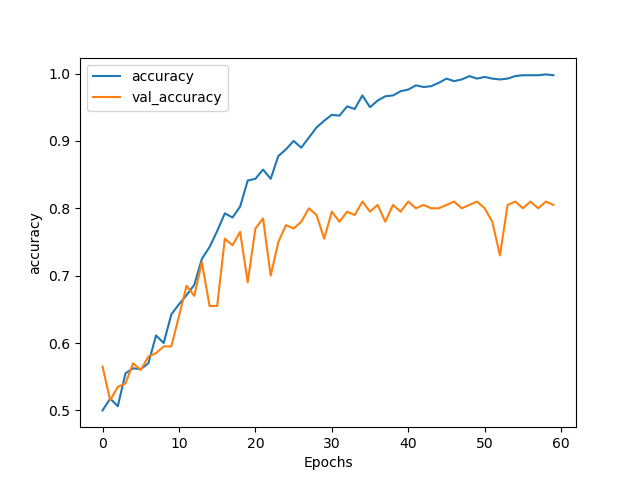
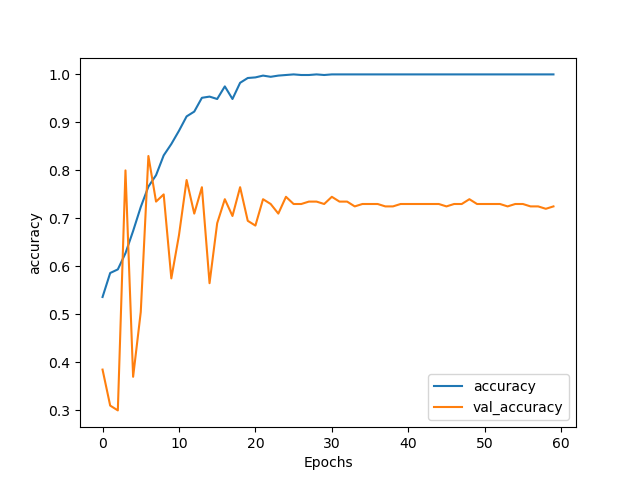
update m4 - decision tree & m5 - SVM

diff --git a/sentiment_analysis.py b/sentiment_analysis.py
@@ -7,6 +7,14 @@ https://www.kaggle.com/anirudha16101/sentiment-analysis
 Attention:
 https://keras.io/examples/nlp/text_classification_with_transformer/
 https://keras.io/api/optimizers/adam/
+
+在資料分析上嘗試更多種方法，再藉由資料分析結果重新調整參數設定
+
+嘗試將資料集切分成更小的單位，並在不同資料量上觀察不同演算法的成效
+
+在 Transformer 訓練上設定 EarlyStopping
+
+嘗試 dimentionality reduction 看看分佈狀態
 """
 
 import config
@@ -52,7 +60,7 @@ import matplotlib.pyplot as plt
 # Attention
 from multi_head_self_attention import MultiHeadSelfAttention, TransformerBlock, TokenAndPositionEmbedding
 
-def load_data(p):
+def load_data(p, sub_set_num):
     """
     讀取資料集
     """
@@ -69,10 +77,12 @@ def load_data(p):
     # 嘗試切割子資料集
     # df_yelp = pd.read_table( p + file_names[0] ,header=None,sep='\t', names=["text", "label"])
     # df_imdb = pd.read_table( p + file_names[1] ,header=None,sep='\t', names=["text", "label"])
-    df_amazon = pd.read_table( p + file_names[2] ,header=None,sep='\t', names=["text", "label"])
+    df_amazon = pd.read_table( p + file_names[0] ,header=None,sep='\t', names=["text", "label"])
 
     # df = pd.concat([df_amazon,df_yelp,df_imdb])
-    df = df_amazon
+    # df = df_amazon
+    df = df_amazon[:sub_set_num]
+    # TODO: 切成 100 筆
 
     return df
 
@@ -319,6 +329,8 @@ def method_3_Attention(df):
 
     model = keras.Model(inputs=inputs, outputs=outputs)
 
+    print(model.summary())
+
     lr_schedule = keras.optimizers.schedules.ExponentialDecay(
         initial_learning_rate=1e-1,
         decay_steps=5,
@@ -335,7 +347,7 @@ def method_3_Attention(df):
 
     # opt = keras.optimizers.Adam(learning_rate=0.001)
     opt_adam = tf.keras.optimizers.Adam(
-        learning_rate=0.0001,
+        learning_rate=3e-4, # 3e-4
         beta_1=0.85,
         beta_2=0.99,
         epsilon=1e-07,
@@ -365,12 +377,88 @@ def method_3_Attention(df):
     plot_graphs(history, "accuracy", 'Attention')
     plot_graphs(history, "loss", 'Attention')
 
+def method_4_decisiontree(df):
+    """
+    嘗試決策樹
+    """
+    vocab_size = 1000
+    max_length = 50
+    train_seq, train_labels, test_seq, test_labels = preprocessing_split(df, vocab_size, max_length)
+    
+    classifier = tree.DecisionTreeClassifier(criterion='gini',max_depth=9,min_samples_split=2,min_impurity_decrease=0.0,ccp_alpha=0.0 )
+    classifier = classifier.fit(train_seq, train_labels)
+    tree.plot_tree(classifier)
+    print(classifier.score(test_seq, test_labels))
+    
+    
+def method_5_SVM(df):
+    """
+    嘗試支持向量機
+    """
+    vocab_size = 1000
+    max_length = 50
+    train_seq, train_labels, test_seq, test_labels = preprocessing_split(df, vocab_size, max_length)
+    
+    clf=svm.SVC(kernel='poly',C=1,gamma='auto')
+    clf.fit(train_seq, train_labels)
+    print(clf.score(test_seq, test_labels))
+    #print(clf) 
+    #print(clf.support_vectors_) #支援向量點 
+    #print(clf.support_) #支援向量點的索引 
+    #print(clf.n_support_) #每個class有幾個支援向量點 
+
+    
+def data_analysis(df):
+    """
+    資料分析
+    """
+    # 設定matplotlib繪圖時的字型
+    my_font = FontProperties(fname=r"c:\windows\fonts\simsun.ttc", size=14)
+    print(df.groupby('label')['label'].count()) #正面500筆負面500筆
+    df['length'] = df['text'].apply(lambda x: len(x))
+    len_df = df.groupby('length').count()
+    sent_length = len_df.index.tolist()
+    sent_freq = len_df['text'].tolist()
+    # 繪製句子長度及出現頻數統計圖
+    plt.bar(sent_length, sent_freq)
+    plt.title("句子長度及出現頻數統計圖", fontproperties=my_font)
+    plt.xlabel("句子長度", fontproperties=my_font)
+    plt.ylabel("句子長度出現的頻數", fontproperties=my_font)
+    plt.savefig("./句子長度及出現頻數統計圖.png")
+    plt.close()
+
+    # 繪製句子長度累積分佈函式(CDF)
+    sent_pentage_list = [(count/sum(sent_freq)) for count in accumulate(sent_freq)]
+
+    # 繪製CDF
+    plt.plot(sent_length, sent_pentage_list)
+
+    # 尋找分位點為quantile的句子長度
+    quantile = 0.91
+    #print(list(sent_pentage_list))
+    for length, per in zip(sent_length, sent_pentage_list):
+        if round(per, 2) == quantile:
+            index = length
+            break
+    print("\n分位點為%s的句子長度:%d." % (quantile, index))
+    # 繪製句子長度累積分佈函式圖
+    plt.plot(sent_length, sent_pentage_list)
+    plt.hlines(quantile, 0, index, colors="c", linestyles="dashed")
+    plt.vlines(index, 0, quantile, colors="c", linestyles="dashed")
+    plt.text(0, quantile, str(quantile))
+    plt.text(index, 0, str(index))
+    plt.title("句子長度累積分佈函式圖", fontproperties=my_font)
+    plt.xlabel("句子長度", fontproperties=my_font)
+    plt.ylabel("句子長度累積頻率", fontproperties=my_font)
+    plt.savefig("./句子長度累積分佈函式圖.png")
+    plt.close()
+    print(df)
 
 def main():
     """
     英文 NLP - Sentiment analysis
     """
-    df = load_data(config.INPUT_PATH)
+    df = load_data(config.INPUT_PATH, 100)
     X_train, X_test, y_train, y_test = train_test_split(df['text'], df['label'], test_size=config.TEST_SIZE, random_state=123)
     print(X_train.shape, y_train.shape, X_test.shape, y_test.shape)
 
@@ -378,8 +466,12 @@ def main():
 
     # method_2_LSTM(df.reset_index(drop=True))
 
-    method_3_Attention(df.reset_index(drop=True))
+    # method_3_Attention(df.reset_index(drop=True))
+    #method_4_decisiontree(df.reset_index(drop=True))
     
+    #method_5_SVM(df.reset_index(drop=True))
+    
+    # data_analysis(df)
 
 if __name__ == "__main__":
     main()
